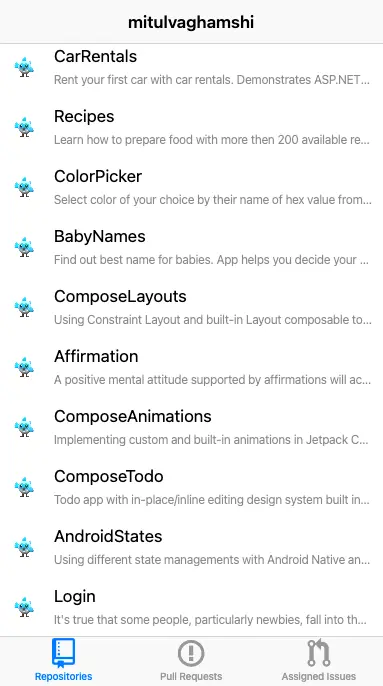
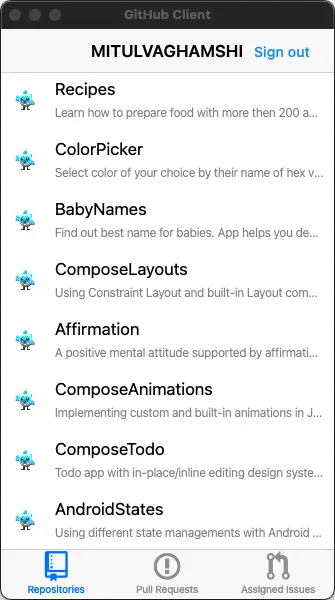
Add sign out button; Update previews;

diff --git a/lib/app.dart b/lib/app.dart
@@ -1,5 +1,6 @@
 import 'package:flutter/cupertino.dart';
 import 'package:flutter/foundation.dart';
+import 'package:flutter/material.dart';
 import 'package:fluttericon/octicons_icons.dart';
 import 'package:github_client/screen/assigned_issue_widget.dart';
 import 'package:github_client/screen/pull_request_widget.dart';
@@ -7,6 +8,7 @@ import 'package:github_client/screen/repository_widget.dart';
 import 'package:github_client/utils/client_config.dart';
 import 'package:github_client/utils/request_handler.dart';
 import 'package:github_client/widgets/login_page_builder.dart';
+import 'package:url_launcher/link.dart';
 
 @immutable
 final class GithubApp extends StatelessWidget {
@@ -18,13 +20,13 @@ final class GithubApp extends StatelessWidget {
   Widget build(BuildContext context) {
     return LoginPageBuilder(
       config: config,
-      builder: (_, handler) => FutureBuilder<Viewer>(
+      builder: (context, handler) => FutureBuilder<Viewer>(
         future: handler.getViewer(),
-        builder: (_, snapshot) {
-          if (!snapshot.hasData) {
-            return const Center(child: CupertinoActivityIndicator());
-          } else if (snapshot.hasError && kDebugMode) {
+        builder: (context, snapshot) {
+          if (snapshot.hasError && kDebugMode) {
             return Text(snapshot.error.toString());
+          } else if (!snapshot.hasData) {
+            return const Center(child: CupertinoActivityIndicator());
           }
           return CupertinoTabScaffold(
             tabBar: CupertinoTabBar(items: const [
@@ -41,24 +43,52 @@ final class GithubApp extends StatelessWidget {
                 icon: Icon(Octicons.git_pull_request),
               ),
             ]),
-            tabBuilder: (_, index) => CupertinoTabView(builder: (_) {
-              return CupertinoPageScaffold(
-                navigationBar: CupertinoNavigationBar(
-                  middle: Text(snapshot.data!.login),
-                ),
-                child: SafeArea(
-                  top: true,
-                  child: switch (index) {
-                    0 => RepositoryWidget(handler: handler),
-                    1 => PullRequestWidget(handler: handler),
-                    2 => AssignedIssueWidget(handler: handler),
-                    _ => throw 'Invalid tab index: $index',
-                  },
-                ),
-              );
-            }),
+            tabBuilder: (context, index) => _TabPageView(
+              user: snapshot.requireData,
+              handler: handler,
+              seletedIndex: index,
+            ),
           );
         },
+      ),
+    );
+  }
+}
+
+class _TabPageView extends StatelessWidget {
+  const _TabPageView({
+    required this.user,
+    required this.handler,
+    required this.seletedIndex,
+  });
+
+  final Viewer user;
+  final RequestHandler handler;
+  final int seletedIndex;
+
+  @override
+  Widget build(BuildContext context) {
+    return CupertinoTabView(
+      builder: (context) => CupertinoPageScaffold(
+        navigationBar: CupertinoNavigationBar(
+          middle: Text(user.login.toUpperCase()),
+          trailing: Link(
+            uri: Uri.https('github.com', 'logout'),
+            builder: (context, followLink) => TextButton(
+              onPressed: followLink,
+              child: const Text('Sign out'),
+            ),
+          ),
+        ),
+        child: SafeArea(
+          top: true,
+          child: switch (seletedIndex) {
+            0 => RepositoryWidget(handler: handler),
+            1 => PullRequestWidget(handler: handler),
+            2 => AssignedIssueWidget(handler: handler),
+            _ => throw 'Invalid tab index: $seletedIndex',
+          },
+        ),
       ),
     );
   }

diff --git a/lib/widgets/login_page_builder.dart b/lib/widgets/login_page_builder.dart
@@ -75,7 +75,7 @@ extension on LoginPageBuilderState {
       widget.config.authorizationEndpoint,
       widget.config.tokenEndpoint,
       secret: widget.config.clientSecret,
-      httpClient: JsonHttpClient(),
+      httpClient: _JsonHttpClient(),
     );
     final authorizationUrl = grant.getAuthorizationUrl(
       redirectUrl,
@@ -106,7 +106,8 @@ extension on LoginPageBuilderState {
   }
 }
 
-class JsonHttpClient extends http.BaseClient {
+@immutable
+final class _JsonHttpClient extends http.BaseClient {
   late final http.Client _httpClient = http.Client();
 
   @override
@@ -116,7 +117,8 @@ class JsonHttpClient extends http.BaseClient {
   }
 }
 
-class _ConfigException implements Exception {
+@immutable
+final class _ConfigException implements Exception {
   const _ConfigException(this.message);
 
   final String message;

diff --git a/lib/widgets/future_page_builder.dart b/lib/widgets/future_page_builder.dart
@@ -29,10 +29,8 @@ final class FuturePageBuilder<T> extends StatelessWidget {
         return ListView.builder(
           itemExtent: 60,
           itemCount: items.length,
-          itemBuilder: (context, int index) => builder(
-            context,
-            items.elementAt(index),
-          ),
+          itemBuilder: (context, index) =>
+              builder(context, items.elementAt(index)),
         );
       },
     );

diff --git a/lib/main.dart b/lib/main.dart
@@ -17,6 +17,7 @@ final class MainApp extends StatelessWidget {
       clientSecret: const String.fromEnvironment('CLIENT_SECRET'),
     );
     return CupertinoApp(
+      debugShowCheckedModeBanner: false,
       title: 'GitHub GraphQL API Client',
       home: GithubApp(config: config),
     );

diff --git a/README.md b/README.md
@@ -12,8 +12,8 @@ Checkout original google codelab
 ## Preview
 
 ![](previews/preview_login.webp)
-![](previews/preview_repos_dark.webp)
-![](previews/preview_pull_requests.webp)
+![](previews/preview_repos.webp)
+![](previews/preview_pull_req.webp)
 ![](previews/preview_repos_light.webp)
 
 ## How to run the app
@@ -28,8 +28,8 @@ Checkout original google codelab
 github_client/config.json
 ```
 
-- Obtain your **Client ID** and **Client Secret** from above registered app, and add it
-  to the `config.json` file as:
+- Obtain your **Client ID** and **Client Secret** from above registered app,
+and add it to the `config.json` file as:
 
 ```json
 {
